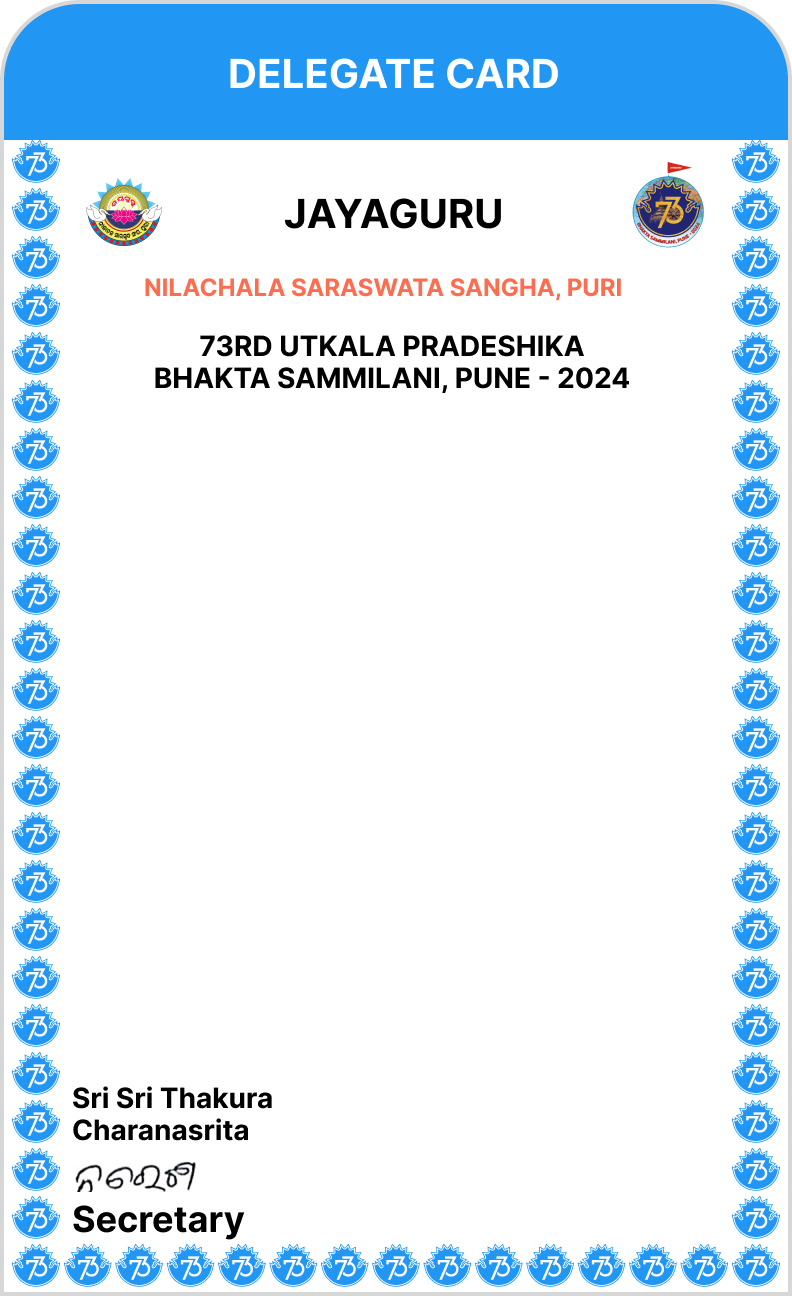
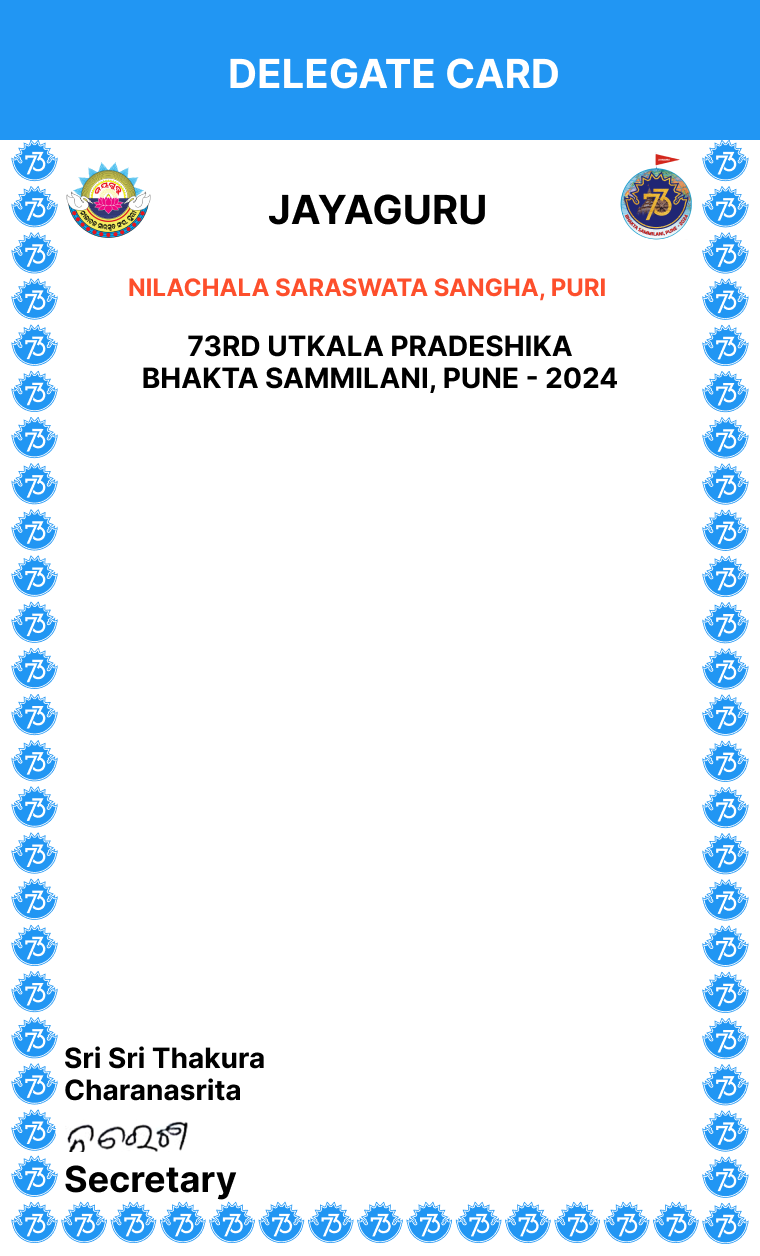
card border removed

Changed region(s): [[0.0, 0.0, 1.0, 1.0], [0.1513, 0.2174, 0.8171, 0.3105], [0.3632, 0.1553, 0.6355, 0.1863]]

diff --git a/lib/screen/viewDevotee/preview_delegate.dart b/lib/screen/viewDevotee/preview_delegate.dart
@@ -638,7 +638,7 @@ class _PreviewDelegateTabState extends State<PreviewDelegateTab> {
       return const AssetImage('assets/images/old.png');
     }
     if (devotee.isOrganizer == true) {
-      return const AssetImage('assets/images/organiser.png');
+      return const AssetImage('assets/images/organizer.png');
     }
 
     if (devotee.ageGroup != "") {
@@ -863,18 +863,7 @@ class _PreviewDelegateTabState extends State<PreviewDelegateTab> {
                               image: DecorationImage(
                                   fit: BoxFit.fill,
                                   image: getCardImage(devotees)),
-                              boxShadow: const [
-                                BoxShadow(
-                                  color: Color.fromARGB(255, 194, 202, 218),
-                                ),
-                              ],
-                              border: Border.all(
-                                width: 3,
-                                color: const Color.fromARGB(255, 233, 233, 233),
-                              ),
-                              borderRadius: const BorderRadius.only(
-                                  topLeft: Radius.circular(15),
-                                  topRight: Radius.circular(15))),
+                           ),
                           child: Padding(
                             padding: const EdgeInsets.all(.0),
                             child: Column(
@@ -1044,9 +1033,7 @@ class _PreviewDelegateTabState extends State<PreviewDelegateTab> {
                                     flex: 1,
                                     child: buildNameText(
                                         widget.devoteeDetails.name),),
-                                          const SizedBox(
-                                  height:4,
-                                ),
+                                
                                 Expanded(
                                   flex: 6,
                                   child: Row(
@@ -1059,7 +1046,7 @@ class _PreviewDelegateTabState extends State<PreviewDelegateTab> {
                                         flex: 2,
                                         child: Padding(
                                           padding:
-                                              const EdgeInsets.only(left: 15),
+                                              const EdgeInsets.only(left: 18),
                                           child: Column(
                                             crossAxisAlignment:
                                                 CrossAxisAlignment.start,
@@ -1123,10 +1110,11 @@ class _PreviewDelegateTabState extends State<PreviewDelegateTab> {
                                         ),
                                       ),
                                        SizedBox(width: 11,),
+                                         
                                     ],
                                   ),
                                 ),
-                              SizedBox(height: 5,),
+                              SizedBox(height: 7.5,),
                               ],
                             ),
                           ),
